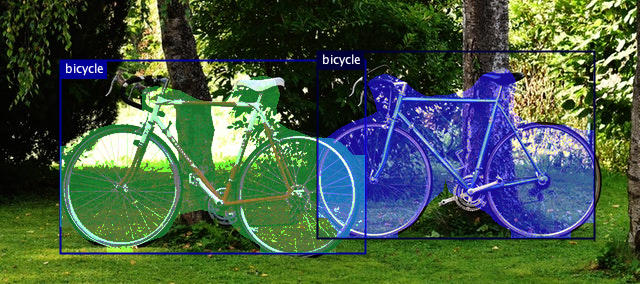
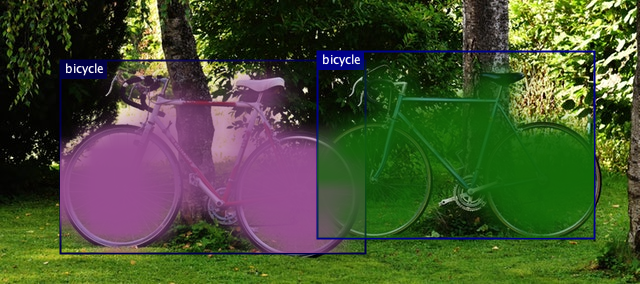
Enable MaskDraw for segmentation use cases

diff --git a/api/src/main/java/ai/djl/modality/cv/ImageVisualization.java b/api/src/main/java/ai/djl/modality/cv/ImageVisualization.java
@@ -14,6 +14,7 @@ package ai.djl.modality.cv;
 
 import ai.djl.modality.cv.Joints.Joint;
 import ai.djl.modality.cv.util.BufferedImageUtils;
+import ai.djl.util.RandomUtils;
 import java.awt.BasicStroke;
 import java.awt.Color;
 import java.awt.FontMetrics;
@@ -53,8 +54,55 @@ public final class ImageVisualization {
             int x = (int) (p.getX() * imageWidth);
             int y = (int) (p.getY() * imageHeight);
             drawText(g, className, x, y, stroke, 4);
+            // If we have a mask instead of a plain rectangle, draw tha mask
+            if (box instanceof Mask) {
+                Mask mask = (Mask) box;
+                drawMask(image, mask);
+            }
         }
         g.dispose();
+    }
+
+    /**
+     * Draws alpha masks on segmented items in image.
+     *
+     * @param image Buffered image to draw masks upon.
+     * @param mask Mask using which the parameters are added
+     */
+    private static void drawMask(BufferedImage image, Mask mask) {
+        float r = RandomUtils.nextFloat();
+        float g = RandomUtils.nextFloat();
+        float b = RandomUtils.nextFloat();
+        int imageWidth = image.getWidth();
+        int imageHeight = image.getHeight();
+        int x = (int) (mask.getX() * imageWidth);
+        int y = (int) (mask.getY() * imageHeight);
+        float[][] probDist = mask.getProbDist();
+        // Correct some coordinates of box when going out of image
+        if (x < 0) {
+            x = 0;
+        }
+        if (y < 0) {
+            y = 0;
+        }
+
+        BufferedImage maskImage =
+                new BufferedImage(probDist.length, probDist[0].length, BufferedImage.TYPE_INT_ARGB);
+        for (int xCor = 0; xCor < probDist.length; xCor++) {
+            for (int yCor = 0; yCor < probDist[xCor].length; yCor++) {
+                float opacity = probDist[xCor][yCor];
+                if (opacity < 0.1) {
+                    opacity = 0f;
+                }
+                if (opacity > 0.8) {
+                    opacity = 0.8f;
+                }
+                maskImage.setRGB(xCor, yCor, new Color(r, g, b, opacity).darker().getRGB());
+            }
+        }
+        Graphics2D gR = (Graphics2D) image.getGraphics();
+        gR.drawImage(maskImage, x, y, null);
+        gR.dispose();
     }
 
     private static void drawText(Graphics2D g, String text, int x, int y, int stroke, int padding) {

diff --git a/api/src/main/java/ai/djl/modality/cv/InstanceSegmentationTranslator.java b/api/src/main/java/ai/djl/modality/cv/InstanceSegmentationTranslator.java
@@ -65,6 +65,8 @@ public class InstanceSegmentationTranslator extends ImageTranslator<DetectedObje
     public NDList processInput(TranslatorContext ctx, BufferedImage image) {
         Pipeline pipeline = getPipeline();
         pipeline.insert(0, null, this);
+        ctx.setAttachment("originalHeight", image.getHeight());
+        ctx.setAttachment("originalWidth", image.getWidth());
         return super.processInput(ctx, image);
     }
 
@@ -97,15 +99,20 @@ public class InstanceSegmentationTranslator extends ImageTranslator<DetectedObje
                 double w = box[2] / rescaledWidth - x;
                 double h = box[3] / rescaledHeight - y;
 
-                Shape maskShape = masks.get(i).getShape();
-                float[][] maskVal = new float[(int) maskShape.get(0)][(int) maskShape.get(1)];
-                float[] flattened = masks.get(i).toFloatArray();
+                int maskW = (int) (w * (int) ctx.getAttachment("originalWidth"));
+                int maskH = (int) (h * (int) ctx.getAttachment("originalHeight"));
 
-                for (int j = 0; j < flattened.length; j++) {
-                    maskVal[j / maskVal.length][j % maskVal.length] = flattened[j];
+                // Reshape mask to actual image bounding box shape.
+                NDArray array = masks.get(i);
+                Shape maskShape = array.getShape();
+                array = array.reshape(maskShape.addAll(new Shape(1)));
+                NDArray maskArray = NDImageUtils.resize(array, maskW, maskH).transpose();
+                float[] flattened = maskArray.toFloatArray();
+                float[][] maskFloat = new float[maskW][maskH];
+                for (int j = 0; j < maskW; j++) {
+                    System.arraycopy(flattened, j * maskH, maskFloat[j], 0, maskH);
                 }
-
-                Mask mask = new Mask(x, y, w, h, maskVal);
+                Mask mask = new Mask(x, y, w, h, maskFloat);
 
                 retNames.add(className);
                 retProbs.add(probability);

diff --git a/api/src/main/java/ai/djl/inference/BasePredictor.java b/api/src/main/java/ai/djl/inference/BasePredictor.java
@@ -25,6 +25,8 @@ import ai.djl.translate.TranslatorContext;
 import java.util.ArrayList;
 import java.util.Collections;
 import java.util.List;
+import java.util.Map;
+import java.util.concurrent.ConcurrentHashMap;
 import org.slf4j.Logger;
 import org.slf4j.LoggerFactory;
 
@@ -180,9 +182,11 @@ public class BasePredictor<I, O> implements Predictor<I, O> {
     private class PredictorContext implements TranslatorContext {
 
         private NDManager ctxManager;
+        private Map<String, Object> attachments;
 
         PredictorContext() {
             ctxManager = manager.newSubManager();
+            attachments = new ConcurrentHashMap<>();
         }
 
         /** {@inheritDoc} */
@@ -207,6 +211,18 @@ public class BasePredictor<I, O> implements Predictor<I, O> {
         @Override
         public void close() {
             ctxManager.close();
+        }
+
+        /** {@inheritDoc} */
+        @Override
+        public Object getAttachment(String key) {
+            return attachments.get(key);
+        }
+
+        /** {@inheritDoc} */
+        @Override
+        public void setAttachment(String key, Object value) {
+            attachments.put(key, value);
         }
     }
 }

diff --git a/examples/src/main/java/ai/djl/examples/inference/InstanceSegmentation.java b/examples/src/main/java/ai/djl/examples/inference/InstanceSegmentation.java
@@ -21,6 +21,7 @@ import ai.djl.mxnet.zoo.MxModelZoo;
 import ai.djl.repository.zoo.ZooModel;
 import ai.djl.training.util.ProgressBar;
 import ai.djl.translate.TranslateException;
+import java.awt.Graphics2D;
 import java.awt.image.BufferedImage;
 import java.io.IOException;
 import java.nio.file.Files;
@@ -65,11 +66,16 @@ public class InstanceSegmentation {
             throws IOException {
         Path dir = Paths.get("build/output");
         Files.createDirectories(dir);
-
-        ImageVisualization.drawBoundingBoxes(img, detection);
+        // Make copy with alpha channel
+        BufferedImage newImage =
+                new BufferedImage(img.getWidth(), img.getHeight(), BufferedImage.TYPE_INT_ARGB);
+        Graphics2D g = newImage.createGraphics();
+        g.drawImage(img, 0, 0, null);
+        g.dispose();
+        ImageVisualization.drawBoundingBoxes(newImage, detection);
 
         Path file = dir.resolve("instances.png");
-        ImageIO.write(img, "png", file.toFile());
+        ImageIO.write(newImage, "png", file.toFile());
         return file;
     }
 }

diff --git a/api/src/main/java/ai/djl/translate/TranslatorContext.java b/api/src/main/java/ai/djl/translate/TranslatorContext.java
@@ -46,6 +46,22 @@ public interface TranslatorContext extends AutoCloseable {
      */
     Metrics getMetrics();
 
+    /**
+     * Returns value of attached key-value pair to context.
+     *
+     * @param key key of attached value
+     * @return the object stored in relevant map
+     */
+    Object getAttachment(String key);
+
+    /**
+     * Set a key-value pair of attachments.
+     *
+     * @param key key of attached value
+     * @param value value assosicated with key
+     */
+    void setAttachment(String key, Object value);
+
     /** {@inheritDoc} */
     @Override
     void close();

diff --git a/api/src/main/java/ai/djl/util/RandomUtils.java b/api/src/main/java/ai/djl/util/RandomUtils.java
@@ -62,4 +62,14 @@ public final class RandomUtils {
     public static int nextInt(int bound) {
         return RANDOM.nextInt(bound);
     }
+
+    /**
+     * Returns a pseudorandom, uniformly distributed {@code float} value between {@code 0.0} and
+     * {@code 1.0}, drawn from his random number generator's sequence.
+     *
+     * @return an float value between {@code 0.0} and {@code 1.0}
+     */
+    public static float nextFloat() {
+        return RANDOM.nextFloat();
+    }
 }

diff --git a/api/src/main/java/ai/djl/modality/cv/Mask.java b/api/src/main/java/ai/djl/modality/cv/Mask.java
@@ -50,6 +50,5 @@ public class Mask extends Rectangle {
     @Override
     public void draw(Graphics2D g, int imageWidth, int imageHeight) {
         super.draw(g, imageWidth, imageHeight);
-        // TODO: implement draw mask method
     }
 }
